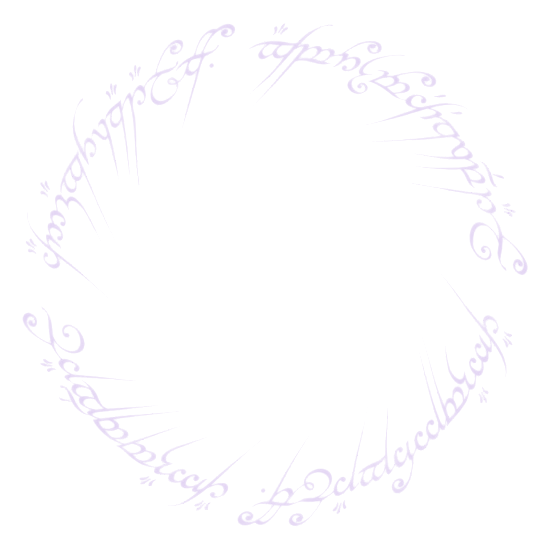
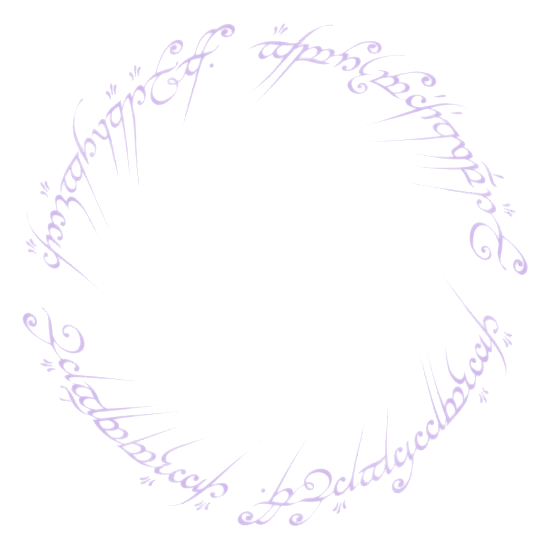
rosepine updates

diff --git a/setup/themes/rosepine/ags/variables.scss b/setup/themes/rosepine/ags/variables.scss
@@ -1,6 +1,6 @@
 $bg: #191724;
 $fg: #E0DEF4;
-$primary: #C4A7E7;
+$primary: #26233A;
 $buttonPrimary: #26233A;
-$sliderTrough: #26233A;
-$bgHover: #26233A;
+$sliderTrough: #1F1D2E;
+$bgHover: #1F1D2E;
